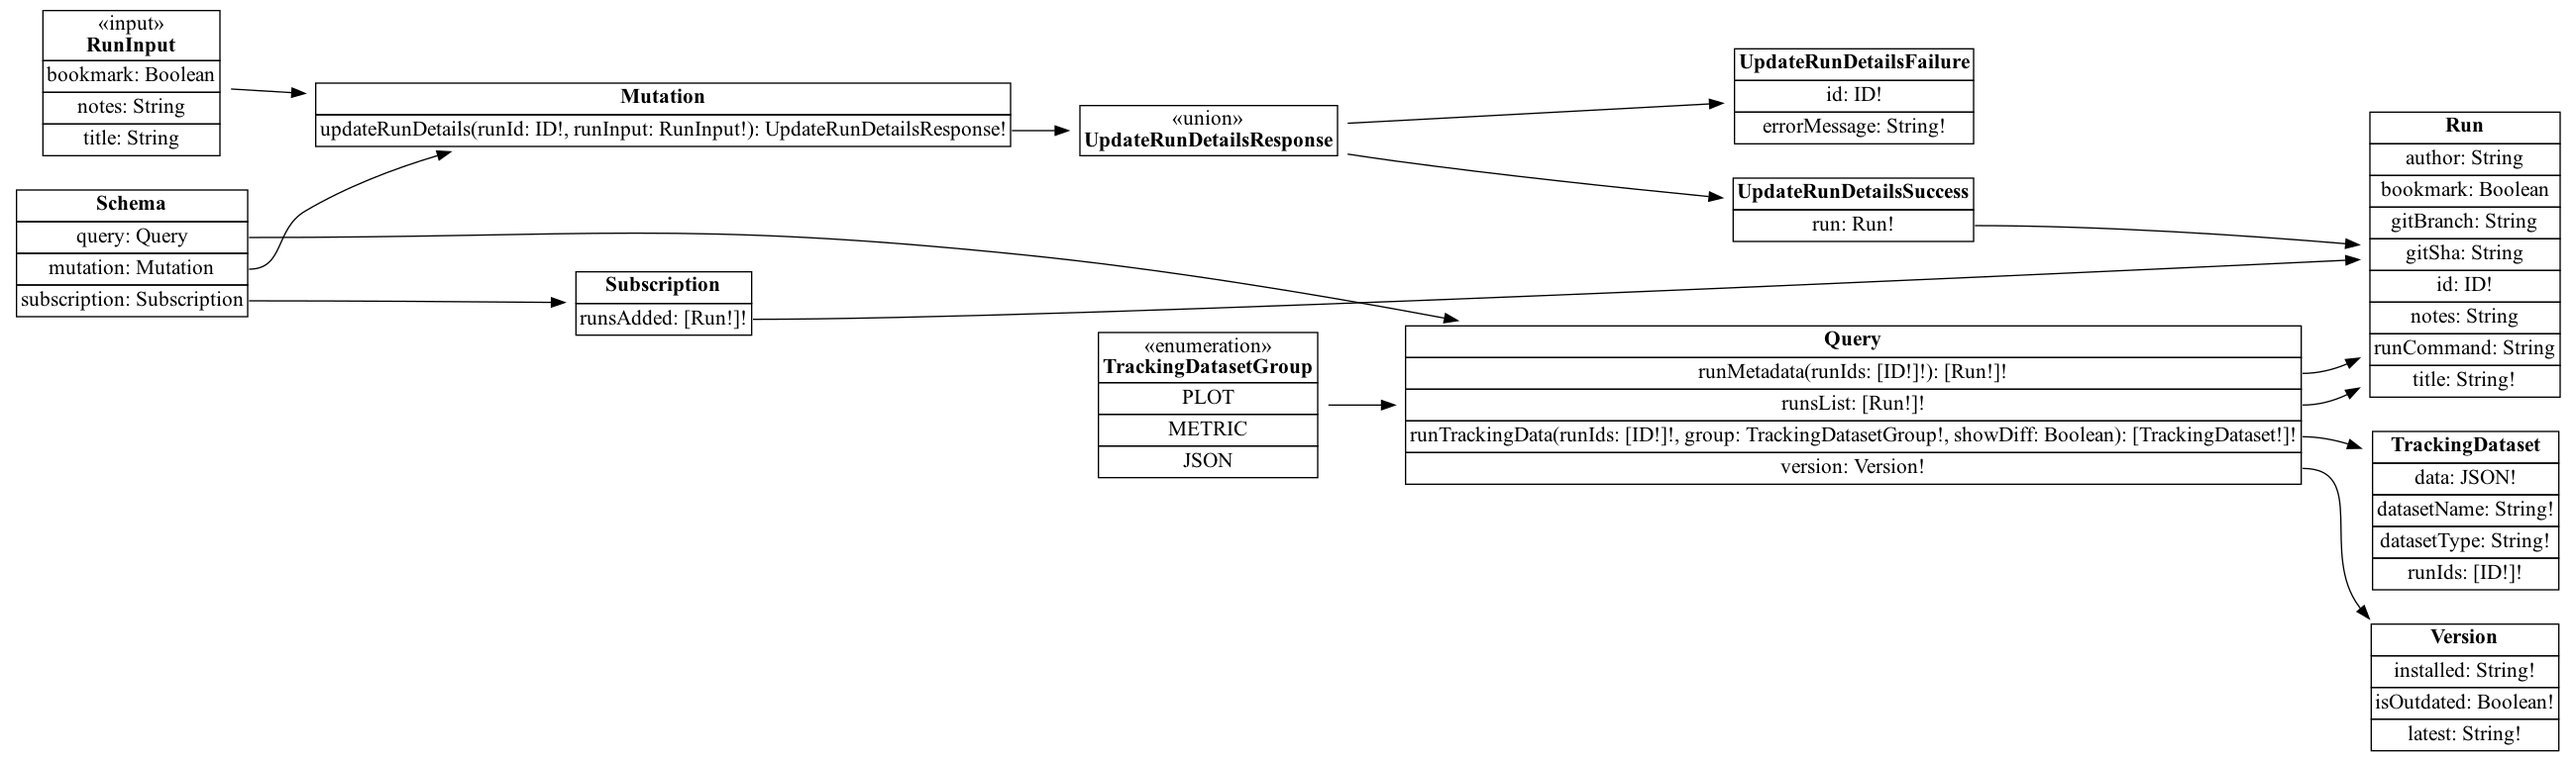
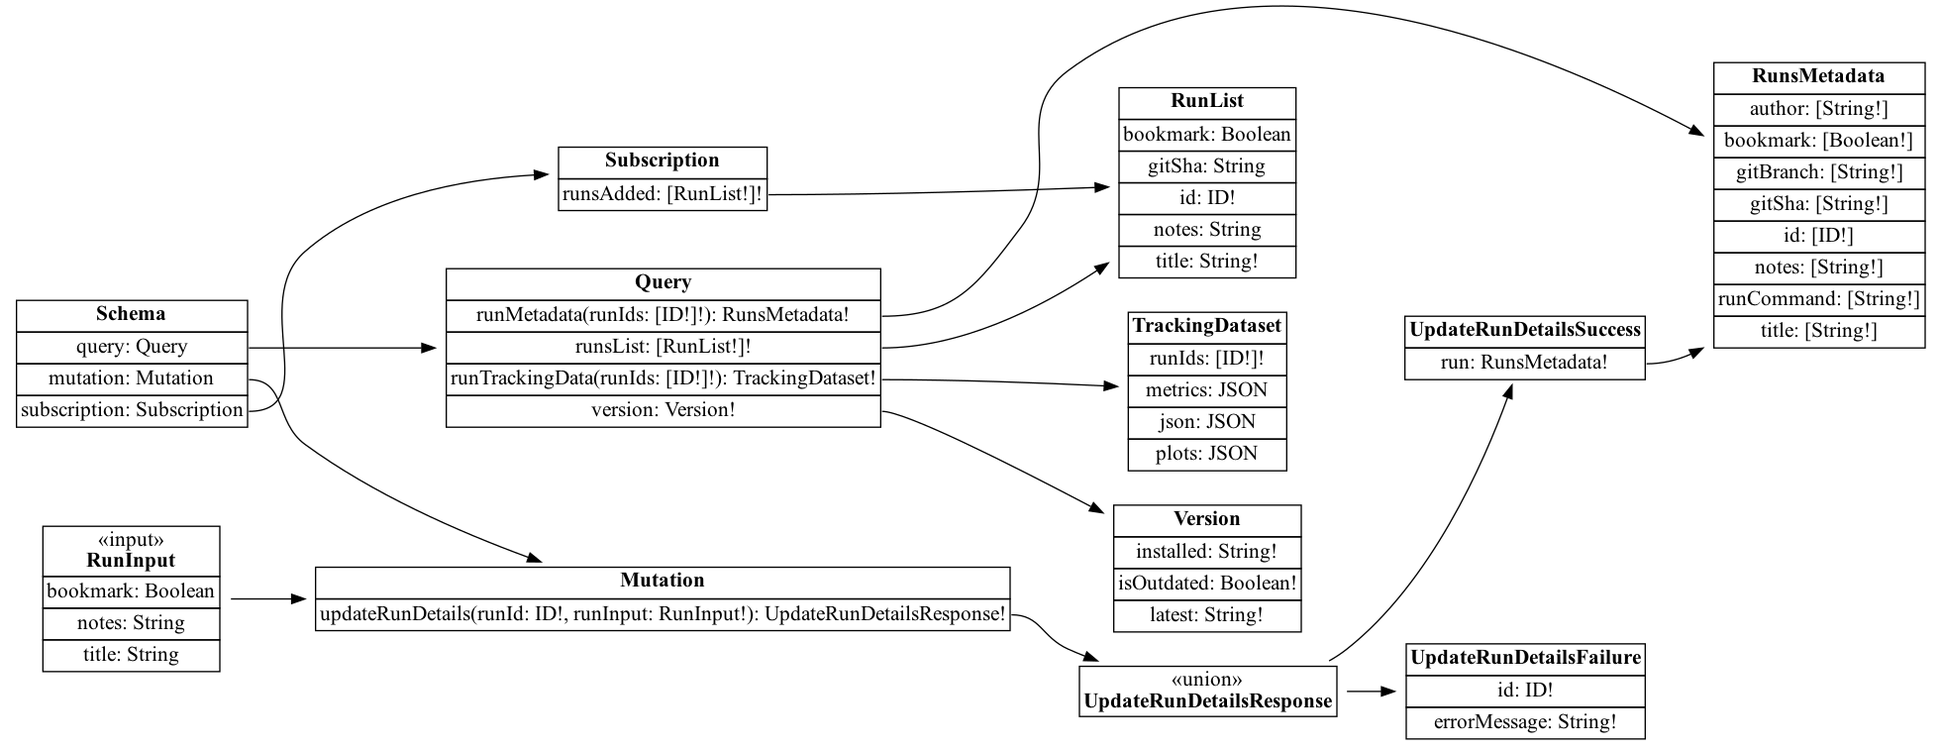
Update the schema and query to match the backend

diff --git a/src/apollo/queries.js b/src/apollo/queries.js
@@ -15,7 +15,7 @@ export const GET_RUNS = gql`
 
 /** query for runMetadata and runDataset components */
 export const GET_RUN_DATA = gql`
-  query getRunData($runIds: [ID!]!, $showDiff: Boolean) {
+  query getRunData($runIds: [ID!]!) {
     runMetadata(runIds: $runIds) {
       id
       author
@@ -26,30 +26,11 @@ export const GET_RUN_DATA = gql`
       runCommand
       title
     }
-    plots: runTrackingData(runIds: $runIds, showDiff: $showDiff, group: PLOT) {
-      ...trackingDatasetFields
+    runTrackingData(runIds: $runIds) {
+      plots
+      metrics
+      json
     }
-    metrics: runTrackingData(
-      runIds: $runIds
-      showDiff: $showDiff
-      group: METRIC
-    ) {
-      ...trackingDatasetFields
-    }
-    JSONData: runTrackingData(
-      runIds: $runIds
-      showDiff: $showDiff
-      group: JSON
-    ) {
-      ...trackingDatasetFields
-    }
-  }
-
-  fragment trackingDatasetFields on TrackingDataset {
-    data
-    datasetName
-    datasetType
-    runIds
   }
 `;
 

diff --git a/src/components/experiment-wrapper/experiment-wrapper.js b/src/components/experiment-wrapper/experiment-wrapper.js
@@ -42,27 +42,16 @@ const ExperimentWrapper = ({ theme }) => {
 
   // Fetch all data for selected runs.
   const {
-    data: { runMetadata = [], plots = [], metrics = [], JSONData = [] } = [],
+    data: { runMetadata = {}, runTrackingData = {} } = {},
     error: runDataError,
     loading: isRunDataLoading,
   } = useApolloQuery(GET_RUN_DATA, {
     skip: selectedRunIds.length === 0,
-    variables: { runIds: selectedRunIds, showDiff: true },
+    variables: { runIds: selectedRunIds },
   });
 
-  let runTrackingData = {};
-
-  if (plots.length > 0) {
-    runTrackingData['Plots'] = plots;
-  }
-
-  if (metrics.length > 0) {
-    runTrackingData['Metrics'] = metrics;
-  }
-
-  if (JSONData.length > 0) {
-    runTrackingData['JSON Data'] = JSONData;
-  }
+  console.log('runMetadata: ', runMetadata);
+  console.log('runTrackingData: ', runTrackingData);
 
   const onRunSelection = (id) => {
     if (enableComparisonView) {

diff --git a/src/components/experiment-tracking/details/details.js b/src/components/experiment-tracking/details/details.js
@@ -131,7 +131,7 @@ const Details = ({
           showLoader={showRunLoader}
           theme={theme}
         />
-        <RunDataset
+        {/* <RunDataset
           enableComparisonView={enableComparisonView}
           enableShowChanges={enableShowChanges}
           isSingleRun={isSingleRun}
@@ -141,7 +141,7 @@ const Details = ({
           showLoader={showRunLoader}
           trackingData={runTrackingData}
           theme={theme}
-        />
+        /> */}
       </div>
     </>
   );

diff --git a/src/components/experiment-tracking/run-metadata/run-metadata.js b/src/components/experiment-tracking/run-metadata/run-metadata.js
@@ -76,7 +76,7 @@ const RunMetadata = ({
   isSingleRun,
   onRunSelection,
   pinnedRun,
-  runs = [],
+  runs = {},
   setPinnedRun,
   setRunMetadataToEdit,
   setShowRunDetailsModal,
